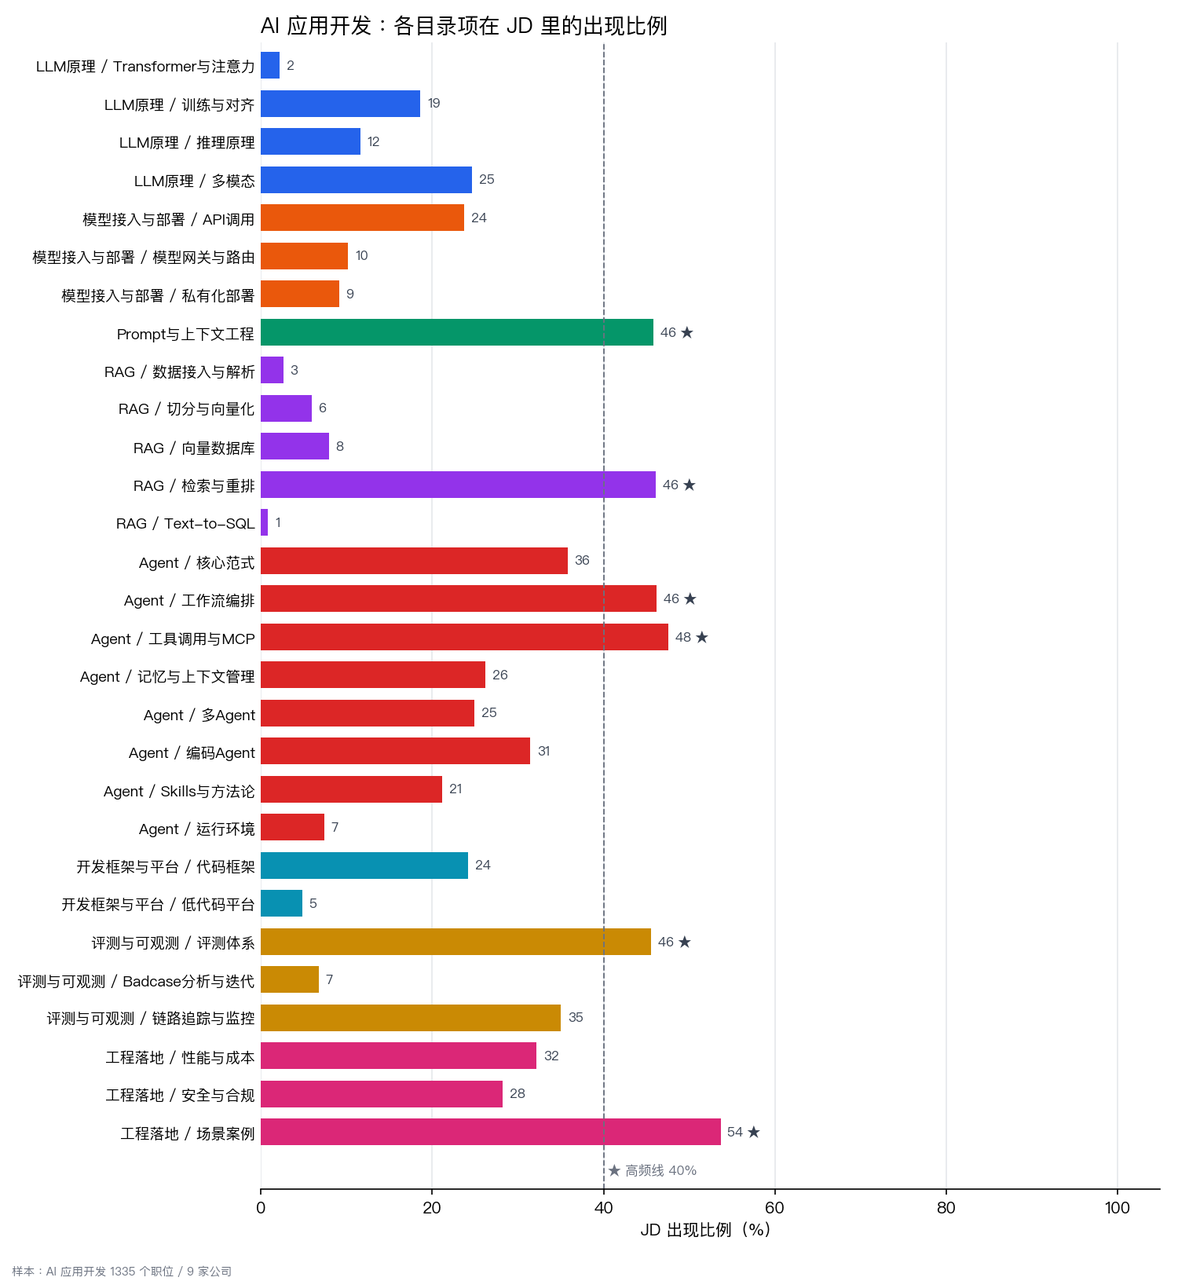
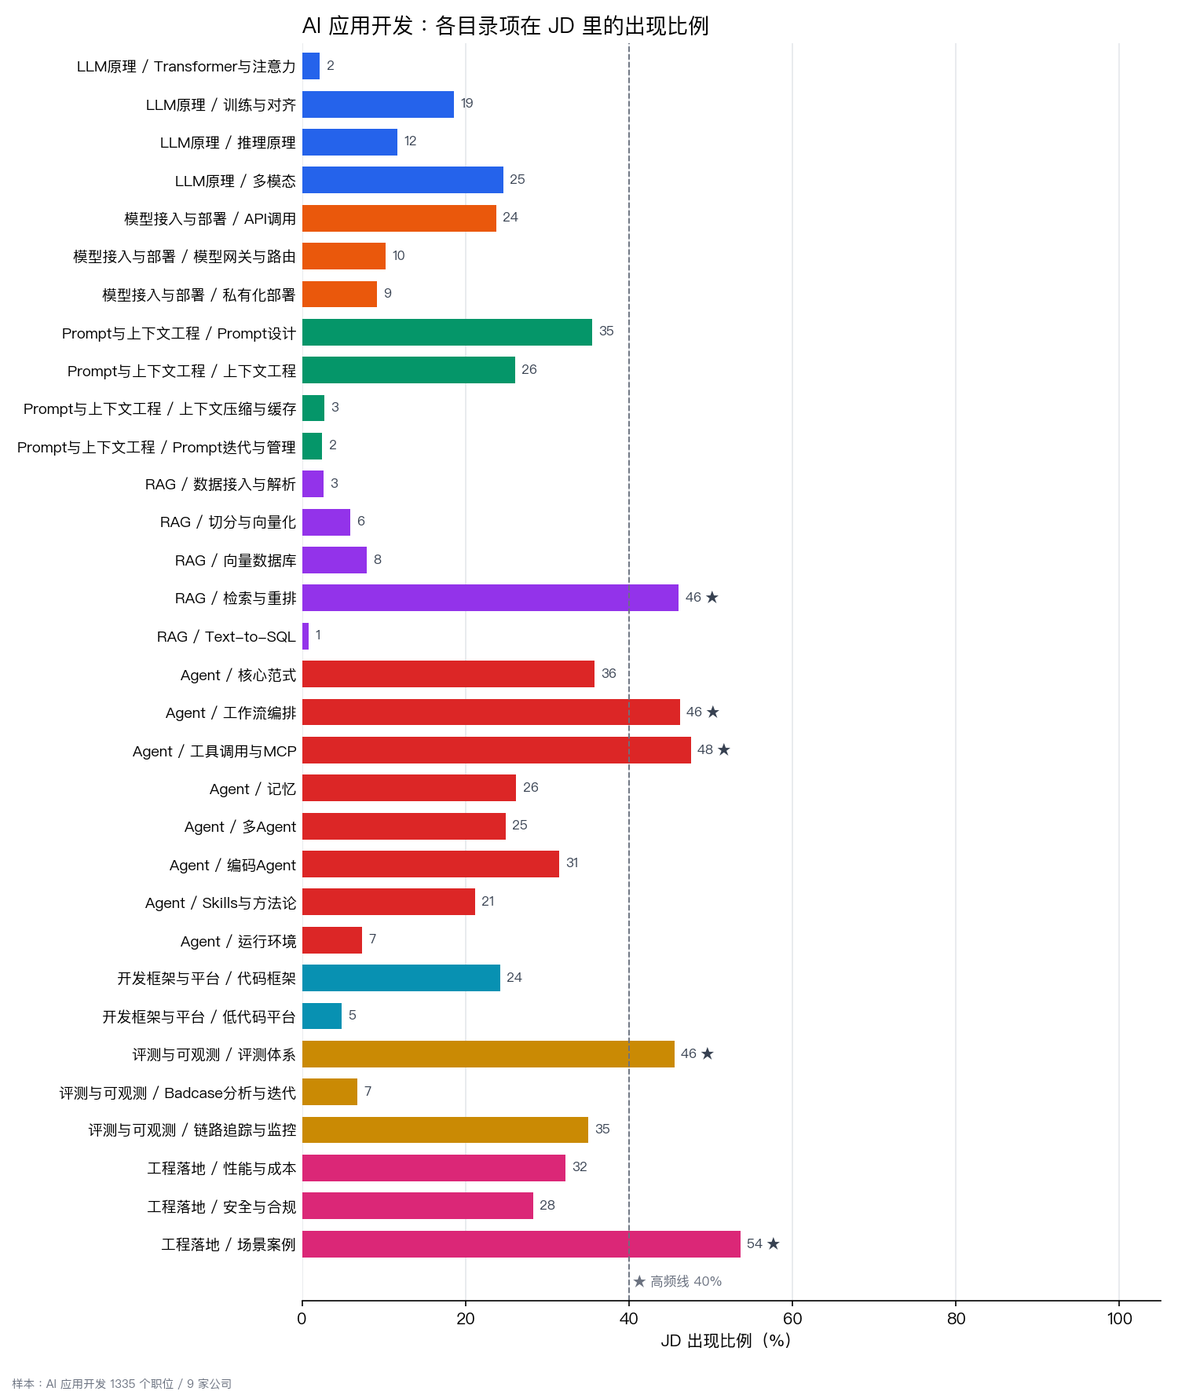
refactor: 重组 AI 应用开发目录，交互图只用点击，补充写作流程
- AI 应用开发：Prompt与上下文工程 拆成 Prompt设计、Prompt迭代与管理、上下文工程、上下文压缩与缓存 四篇；记忆与上下文管理 改名为 记忆，压缩部分移到上下文压缩与缓存
- jd_analysis.py 同步新目录项并重新生成 ai-dev.png，README 里的 JD 比例说明随之更新
- 交互图去掉悬停和 title 提示，联动高亮、RTT 计算器、封装图都只响应点击（手机上悬停不可用）
- CLAUDE.md 补充写一篇笔记的四步流程、写法约定和交互图用法
- 计算机网络笔记按新约定调整，重新生成 notes.json

diff --git a/site/assets/figures.js b/site/assets/figures.js
@@ -49,11 +49,11 @@
     go(0);
   }
 
-  // 联动高亮：.fig-hl 下 data-key 相同的元素一起高亮；悬停预览，点击固定。
-  // .fig-note[data-key] 只在对应的 key 被选中时显示，.fig-hint 在没有选中时显示
+  // 联动高亮：点击一个带 data-key 的元素，所有 data-key 相同的元素一起高亮，再点一次取消。
+  // 只响应点击，不用悬停。.fig-note[data-key] 只在对应的 key 被选中时显示，.fig-hint 在没有选中时显示
   function highlight(fig) {
     var keyed = fig.querySelectorAll("[data-key]");
-    var pinned = fig.getAttribute("data-default") || null;
+    var selected = fig.getAttribute("data-default") || null;
     function show(k) {
       Array.prototype.forEach.call(keyed, function (el) {
         el.classList.toggle("on", !!k && el.getAttribute("data-key") === k);
@@ -63,12 +63,10 @@
     Array.prototype.forEach.call(keyed, function (el) {
       if (el.classList.contains("fig-note")) return;
       var k = el.getAttribute("data-key");
-      el.addEventListener("mouseenter", function () { show(k); });
-      el.addEventListener("mouseleave", function () { show(pinned); });
-      el.addEventListener("click", function () { pinned = pinned === k ? null : k; show(pinned); });
+      el.addEventListener("click", function () { selected = selected === k ? null : k; show(selected); });
     });
     fig.classList.add("js");
-    show(pinned);
+    show(selected);
   }
 
   // RTT 耗时计算器：比较不同协议从发起连接到收完响应要多久。
@@ -115,8 +113,7 @@
       var max = Math.max.apply(null, data.map(function (d) { return d.total; }));
       rows.innerHTML = data.map(function (d) {
         var bar = d.segs.map(function (s) {
-          return '<span class="s-' + s.cls + '" style="width:' + (s.ms / max * 100) + '%" title="'
-            + s.label + '：' + s.ms.toFixed(1) + ' ms"></span>';
+          return '<span class="s-' + s.cls + '" style="width:' + (s.ms / max * 100) + '%"></span>';
         }).join("");
         return '<div class="rtt-row"><span class="rtt-name">' + d.p.name + '</span>'
           + '<span class="rtt-bar">' + bar + '</span>'

diff --git a/site/assets/style.css b/site/assets/style.css
@@ -248,7 +248,7 @@ main:has(.graph) { max-width: none; }
 .fig-encap > .lv { grid-column: 1; color: var(--ink-2); font-size: 12.5px; }
 .fig-encap > .pdu { grid-column: 7; color: var(--muted); font-size: 12px; padding-left: 8px; }
 .fig-encap > .seg {
-  padding: 5px 2px; border: 1px solid var(--border); border-radius: 5px; text-align: center; font-size: 12px; cursor: help;
+  padding: 5px 2px; border: 1px solid var(--border); border-radius: 5px; text-align: center; font-size: 12px;
 }
 .fig-encap .g2 { grid-column: 2; } .fig-encap .g3 { grid-column: 3; } .fig-encap .g4 { grid-column: 4; }
 .fig-encap .g5 { grid-column: 5; } .fig-encap .g6 { grid-column: 6; } .fig-encap .g2-6 { grid-column: 2 / 7; }
@@ -256,7 +256,7 @@ main:has(.graph) { max-width: none; }
 .fig-encap .h-ip { background: rgba(230, 140, 30, 0.20); }
 .fig-encap .h-tcp { background: rgba(27, 175, 122, 0.18); }
 .fig-encap .data { background: rgba(42, 120, 214, 0.16); }
-.fig-encap .bits { font-family: ui-monospace, Menlo, monospace; letter-spacing: 1px; color: var(--muted); cursor: default; }
+.fig-encap .bits { font-family: ui-monospace, Menlo, monospace; letter-spacing: 1px; color: var(--muted); }
 .fig-encap .dir { grid-column: 1 / -1; color: var(--muted); font-size: 12px; }
 
 /* SVG 图 */

diff --git a/tools/scripts/jd_analysis.py b/tools/scripts/jd_analysis.py
@@ -1,7 +1,7 @@
 #!/usr/bin/env python3
 """用社招 JD 统计每个目录项被提到的比例，生成 README 里的图。
 
-    python3 tools/scripts/jd_analysis.py [数据目录]      # 默认 ../../求职/data
+    python3 tools/scripts/jd_analysis.py [数据目录]      # 默认读仓库同级的 求职/data
 
 数据目录的格式是 <公司>/技术.csv、<公司>/产品.csv，来自 cn-tech-jobs 看板
 （https://sigangluo.github.io/cn-tech-jobs/ 页面底部可下载各公司 CSV）。
@@ -24,7 +24,7 @@ import matplotlib
 matplotlib.use("Agg")
 import matplotlib.pyplot as plt  # noqa: E402
 
-TOOLS = os.path.dirname(os.path.abspath(__file__))
+TOOLS = os.path.dirname(os.path.dirname(os.path.abspath(__file__)))
 ROOT = os.path.dirname(TOOLS)
 OUT = os.path.join(TOOLS, "docs", "images")
 MIN_JOBS = 8
@@ -85,7 +85,10 @@ ITEMS = [
     ("ai-dev", "模型接入与部署", "API调用", ("AI 应用开发",), r"模型 ?API|LLM ?API|模型接口|OpenAI|流式|结构化输出|Function ?Call"),
     ("ai-dev", "模型接入与部署", "模型网关与路由", ("AI 应用开发",), r"网关|模型路由|模型选型|多模型"),
     ("ai-dev", "模型接入与部署", "私有化部署", ("AI 应用开发",), r"vLLM|SGLang|Ollama|私有化|本地部署|模型部署|推理部署|推理服务"),
-    ("ai-dev", "Prompt与上下文工程", "Prompt与上下文工程", ("AI 应用开发",), r"Prompt|提示词|上下文工程|Context Engineering|上下文管理"),
+    ("ai-dev", "Prompt与上下文工程", "Prompt设计", ("AI 应用开发",), r"Prompt|提示词|Few-?shot|思维链|CoT"),
+    ("ai-dev", "Prompt与上下文工程", "上下文工程", ("AI 应用开发",), r"上下文工程|Context Engineering|上下文管理|上下文构建|上下文窗口|长上下文"),
+    ("ai-dev", "Prompt与上下文工程", "上下文压缩与缓存", ("AI 应用开发",), r"上下文压缩|Token ?压缩|Prompt ?Cach|上下文缓存"),
+    ("ai-dev", "Prompt与上下文工程", "Prompt迭代与管理", ("AI 应用开发",), r"(Prompt|提示词) ?(调优|优化|迭代|管理)|DSPy|自动优化"),
     ("ai-dev", "RAG", "数据接入与解析", ("AI 应用开发",), r"文档解析|数据解析|OCR|抓取|爬虫|ETL"),
     ("ai-dev", "RAG", "切分与向量化", ("AI 应用开发",), r"切分|分块|Chunk|[Ee]mbedding|向量化"),
     ("ai-dev", "RAG", "向量数据库", ("AI 应用开发",), r"向量数据库|向量库|向量检索|Milvus|pgvector|FAISS|Faiss"),
@@ -94,7 +97,7 @@ ITEMS = [
     ("ai-dev", "Agent", "核心范式", ("AI 应用开发",), r"ReAct|规划|Planning|CoT|思维链|反思"),
     ("ai-dev", "Agent", "工作流编排", ("AI 应用开发",), r"工作流|Workflow|编排"),
     ("ai-dev", "Agent", "工具调用与MCP", ("AI 应用开发",), r"Function ?Call|工具调用|Tool ?(Use|Call)|MCP"),
-    ("ai-dev", "Agent", "记忆与上下文管理", ("AI 应用开发",), r"记忆|Memory"),
+    ("ai-dev", "Agent", "记忆", ("AI 应用开发",), r"记忆|Memory"),
     ("ai-dev", "Agent", "多Agent", ("AI 应用开发",), r"多 ?Agent|多智能体|Multi-?Agent|A2A"),
     ("ai-dev", "Agent", "编码Agent", ("AI 应用开发",), r"AI ?Coding|代码生成|Coding Agent|Claude Code|Cursor"),
     ("ai-dev", "Agent", "Skills与方法论", ("AI 应用开发",), r"Skill|AGENTS\.md|规范驱动|Spec"),
@@ -239,7 +242,7 @@ def plot_items(groups, fig_key, results):
 
 
 def main():
-    data_dir = sys.argv[1] if len(sys.argv) > 1 else os.path.join(ROOT, "..", "..", "求职", "data")
+    data_dir = sys.argv[1] if len(sys.argv) > 1 else os.path.join(ROOT, "..", "求职", "data")
     os.makedirs(OUT, exist_ok=True)
     setup()
     groups = load(data_dir)

diff --git a/.claude/CLAUDE.md b/.claude/CLAUDE.md
@@ -4,12 +4,96 @@
 
 ## 内容放在哪里
 
-- 每个文件开头的「范围」就是它的边界。写新内容先找范围匹配的文件，超出范围就放到对应文件再链接，不要在两个地方各写一份。
+- 还没写的笔记开头有一行「范围」，是早期临时写的，不一定对，只作参考。开始写某篇笔记时直接删掉这一行，不用向用户提起；这篇笔记的边界以确认后的目录为准。
+- 同一个知识点只写一处，其他笔记用 Markdown 链接引用，不要在两个地方各写一份。
 - `技术/全栈开发/共通/` 只放前后端都要学的内容；只有前端或只有后端要学的放 `前端/`、`后端/`。
 - `产品/AI产品/技术理解` 只写产品需要懂到的程度，原理写在 `技术/AI应用开发/`，用 Markdown 链接过去。这种链接会被站点收成引用关系：笔记底部列出「引用 / 被引用」，「关联」页汇总全部。
 - `产品/` 下「要懂什么」放知识目录，「怎么答」放 `面试题型/`。
 - 面经放 `面经与复盘/`，格式见那里的 README；复盘出的知识点写回对应的知识文件。
 - 新增目录项时同步更新 README 的目录结构；如果它在 JD 里有对应要求，在 `tools/scripts/jd_analysis.py` 的 `ITEMS` 里加一行关键词，重新生成图。
+
+## 写一篇笔记的流程
+
+按下面四步走，每步做完停下来等用户确认，再进入下一步。
+
+### 1. 收集参考资料
+
+- **从哪找**：技术笔记先从 `../项目/github-fullstack-topk/`、`../项目/github-ai-topk/` 两份项目图谱里按分类和关键词筛；再上网补图谱之外的资料（经典教材、课程、中文面试资料、官方文档、规范原文）。考点的侧重可以参考 `../求职/data` 里的 JD。
+- **放在哪**：`../参考/`，在 `面试/` 仓库之外，约定见 `../参考/README.md`。
+  - 要克隆的仓库加进 `repos.txt`，运行 `./sync.sh`，浅克隆到 `repos/<owner>/<repo>/`，一个仓库只存一份，多篇笔记共用。
+  - 规范、标准、论文等原文放 `docs/<类别>/`。
+  - 每篇笔记在 `清单/` 下有一份参考清单，路径和笔记一一对应。清单写明用到哪个仓库的哪些具体文件、各资料的用途和可信度，以及和其他笔记的边界。
+- 只有读源码时才用得上的大型代码仓库，写笔记用不到，只在清单里列出，不克隆。
+
+### 2. 核实：参考资料只是参考
+
+参考资料可能有错、互相矛盾或已经过时，不能照搬。
+
+- 写进笔记的每个结论，都要以规范原文、官方文档或官方公告为准，二手资料只用来找考点。
+- 容易过时的内容（版本、默认值、标准的最新状态、厂商和浏览器的支持情况）要上网查最新状态，并把结论、来源链接、核实日期记进清单的「已核实的时效信息」。
+- 目录条目本身也要核实。条目往往是从资料里沿用的说法，里面可能带着过时或误导的前提：比如把某个旧版本、某种经典模型当成现状，或者问题的问法本身就预设了一个不成立的结论。
+- 资料之间有矛盾时，在笔记里写明正确说法和常见的错误说法。
+
+### 3. 写目录，给用户确认
+
+目录要同时满足以下几条：
+
+- **循序渐进**：概念先于使用，不提前引用后面才讲的概念。写完逐条检查：每个条目用到的概念是否已经在前面讲过。
+- **概念导向，不是问题导向**：每章前面的小节用陈述式标题讲清「是什么、怎么工作」；面试题集中放在每章最后的「常见追问」。每条追问只能依赖本章和前面章节的内容，否则挪到后面的章节。
+- **面试完整**：对照参考资料里的高频题清单查漏。
+- **边界清楚**：和其他笔记重叠的内容，只在一处展开，其他地方用 Markdown 链接引用，比如 `见[笔记标题](相对路径.md)`，不要写成「写在「某某笔记」」这种纯文本。
+- 每章开头如果需要承接前文，用一节「要解决的问题」说明这一章为什么存在。
+
+### 4. 按章写正文
+
+- 先写第一章给用户看，确认风格后再继续；之后每写完一章都请用户过目。
+- 没写完的笔记保留「（待补充）」标记：`build_site.py` 靠它判断一篇笔记是否写完。分章写时，把它放在还没写的章节前面，比如 `以下章节（待补充），目前只有目录。`
+- 写完用浏览器打开本地预览，逐个点一遍交互，深色和浅色主题都要看。
+
+## 写法
+
+- **图文并茂、结构化**：每个概念优先用「图或表 + 几条要点」来表达，不写大段文字。要点用加粗关键词开头，例如 `- **关键词**：……`。
+- **类比、易混点、结论**放引用块：`> **要点**：……`、`> **类比**：……`、`> **易混**：……`。
+- **表格**适合做对比和汇总。
+- **常见追问**写成点击展开的自测题，让读者先自己想，再看答案：
+
+  ```markdown
+  <details>
+  <summary>问题？</summary>
+
+  - **结论一**：……
+  - **结论二**：……
+
+  </details>
+  ```
+
+- **引用写法**：跨笔记的引用用 Markdown 链接；同一篇里引用其他小节用纯文本（如「见 2.3」），因为站点不支持跳到锚点。
+
+## 交互图
+
+图直接用 HTML 写在 Markdown 里，交互由 `site/assets/figures.js` 提供，样式在 `site/assets/style.css` 的「笔记里的图」部分。
+
+**交互只用点击，不用悬停**，也不要用 `title` 属性做悬停提示：悬停要等，在手机上也用不了。
+
+通用组件：
+
+| 组件 | 适合 | 写法 |
+|---|---|---|
+| `.fig-steps` 分步演示 | 流程、时序、状态变化 | 图里的元素加 `data-node`；`.fig-list > li` 是各个步骤，`data-on` 列出这一步要高亮的节点，`data-label` 是步骤按钮上的短名 |
+| `.fig-hl` 联动高亮 | 对照、结构、组成部分 | 可点击的元素加 `data-key`，key 相同的一起高亮；`.fig-note[data-key]` 是选中后显示的说明，`.fig-hint` 是没选中时的提示 |
+
+`figures.js` 里还有为个别笔记写的专用组件，用法看代码，不要当成通用写法。
+
+通用的布局类：`.fig-cap` 是图的说明文字；`.fig-flow` 配 `.fig-box`、`.fig-wire` 画横向的节点和连线，节点下方要挂分支时用 `.has-below`、`.fig-drop`、`.fig-below`、`.fig-vwire`；`.fig-notes` 是图下方的说明区。其他为个别图写的布局见 `style.css`。静态示意图可以直接写内联 `<svg>`，文字和线条用 `currentColor`，以适配深浅主题；`marker` 等元素的 `id` 要全站唯一。
+
+需要新的交互时，优先在 `figures.js` 里加通用组件；只有确实无法通用时，才写某张图的专用逻辑。
+
+写 HTML 时注意这几个坑：
+
+- **HTML 块里不能有空行**：marked 遇到空行就结束 HTML 块，后面的内容会被当成 Markdown 解析，缩进的行还会变成代码块。
+- **HTML 块里不解析 Markdown**：要用 `<b>`、`<code>`、`<br>` 等标签。
+- **指向其他笔记的链接写在 HTML 块外面**，用 Markdown 语法：`build_site.py` 只从 Markdown 链接收集引用关系。
+- **在 GitHub 上看源文件时交互会失效**（`class`、`data-*` 会被过滤），所以要保证内容能退化成可读的列表和表格。例如分步演示的每个步骤里都要写完整的文字，不能只靠高亮来表达。
 
 ## 隐私
 

diff --git a/技术/全栈开发/共通/计算机网络.md b/技术/全栈开发/共通/计算机网络.md
@@ -59,7 +59,7 @@
 <div class="c1" data-key="link">物理层</div>
 </div>
 <div class="fig-notes">
-<p class="fig-hint">悬停或点击任意一格，查看两个模型的对应关系</p>
+<p class="fig-hint">点击任意一格，查看两个模型的对应关系</p>
 <p class="fig-note" data-key="app"><b>应用层</b> = OSI 的应用层 + 表示层 + 会话层。加密、编码、会话管理这些事，实际中由应用或库自己完成（比如 TLS 负责加密），没有单独成层。</p>
 <p class="fig-note" data-key="tp"><b>传输层</b>在两个模型里一致：在两台主机的进程之间传数据。</p>
 <p class="fig-note" data-key="net"><b>网际层</b>就是 OSI 的网络层：跨越多个网络，把数据从源主机送到目的主机。</p>
@@ -87,14 +87,24 @@
 
 **封装与解封装**
 
-<div class="fig">
-<p class="fig-cap">发送一个 HTTP 请求时，每往下一层就在前面加一个头。把鼠标停在各个头上，可以看到里面有什么</p>
+<div class="fig fig-hl">
+<p class="fig-cap">发送一个 HTTP 请求时，每往下一层就在前面加一个头。点击任意一块，查看里面有什么</p>
 <div class="fig-encap">
-<div class="lv">应用层</div><div class="seg data g5" title="HTTP 请求：请求行、头部、正文">HTTP 报文</div><div class="pdu">报文</div>
-<div class="lv">传输层</div><div class="seg h-tcp g4" title="TCP 头（至少 20 字节）：源端口、目的端口、序号、确认号、标志位、窗口大小">TCP 头</div><div class="seg data g5">数据</div><div class="pdu">报文段</div>
-<div class="lv">网络层</div><div class="seg h-ip g3" title="IPv4 头（至少 20 字节）：源 IP、目的 IP、TTL、上层协议号">IP 头</div><div class="seg h-tcp g4">TCP 头</div><div class="seg data g5">数据</div><div class="pdu">IP 数据报</div>
-<div class="lv">链路层</div><div class="seg h-eth g2" title="以太网帧头（14 字节）：目的 MAC、源 MAC、上层协议类型">帧头</div><div class="seg h-ip g3">IP 头</div><div class="seg h-tcp g4">TCP 头</div><div class="seg data g5">数据</div><div class="seg t-eth g6" title="帧尾（4 字节）：校验值，用来发现传输中出错的比特">帧尾</div><div class="pdu">帧</div>
-<div class="lv">物理层</div><div class="seg bits g2-6">0 1 0 0 1 0 1 1 0 1 1 0 …</div><div class="pdu">比特</div>
+<div class="lv">应用层</div><div class="seg data g5" data-key="http">HTTP 报文</div><div class="pdu">报文</div>
+<div class="lv">传输层</div><div class="seg h-tcp g4" data-key="tcp">TCP 头</div><div class="seg data g5" data-key="data">数据</div><div class="pdu">报文段</div>
+<div class="lv">网络层</div><div class="seg h-ip g3" data-key="ip">IP 头</div><div class="seg h-tcp g4" data-key="tcp">TCP 头</div><div class="seg data g5" data-key="data">数据</div><div class="pdu">IP 数据报</div>
+<div class="lv">链路层</div><div class="seg h-eth g2" data-key="eth">帧头</div><div class="seg h-ip g3" data-key="ip">IP 头</div><div class="seg h-tcp g4" data-key="tcp">TCP 头</div><div class="seg data g5" data-key="data">数据</div><div class="seg t-eth g6" data-key="fcs">帧尾</div><div class="pdu">帧</div>
+<div class="lv">物理层</div><div class="seg bits g2-6" data-key="bits">0 1 0 0 1 0 1 1 0 1 1 0 …</div><div class="pdu">比特</div>
+</div>
+<div class="fig-notes">
+<p class="fig-hint">点击任意一块查看说明</p>
+<p class="fig-note" data-key="http"><b>HTTP 报文</b>：请求行、头部、正文。如果是 HTTPS，这里是 TLS 加密后的内容。</p>
+<p class="fig-note" data-key="data"><b>数据</b>：上一层交下来的全部内容。这一层不关心里面是什么，原样装进来。</p>
+<p class="fig-note" data-key="tcp"><b>TCP 头</b>（至少 20 字节）：源端口、目的端口、序号、确认号、标志位、窗口大小。目的端口指明交给哪个应用。</p>
+<p class="fig-note" data-key="ip"><b>IP 头</b>（IPv4 至少 20 字节）：源 IP、目的 IP、TTL、协议号。协议号指明上层是 TCP 还是 UDP。</p>
+<p class="fig-note" data-key="eth"><b>帧头</b>（以太网 14 字节）：目的 MAC、源 MAC、类型。类型指明上层是 IPv4、IPv6 还是 ARP。</p>
+<p class="fig-note" data-key="fcs"><b>帧尾</b>（4 字节）：校验值。接收方用它发现传输中出错的比特，出错的帧直接丢弃。</p>
+<p class="fig-note" data-key="bits"><b>比特</b>：物理层把整个帧变成 0 和 1，以电信号、光信号或无线电的形式发出去。</p>
 </div>
 </div>
 

diff --git a/README.md b/README.md
@@ -49,7 +49,7 @@ python3 tools/scripts/jd_analysis.py [数据目录]    # 默认 ../../求职/dat
 
 ![AI 应用开发各目录项的 JD 出现比例](tools/docs/images/ai-dev.png)
 
-高频的是工具调用与 MCP、Prompt 与上下文工程、RAG、工作流编排、评测（都在 46%～48%），外加业务场景落地（54%），评测因此单独成一个目录。RAG 的子项（解析、切分、向量库）在 JD 里很少单独写，通常只写「RAG」，但面试会顺着整条链路追问。浏览器自动化、沙箱只有 7%，合并成「运行环境」。
+高频的是工具调用与 MCP、RAG、工作流编排、评测（都在 46%～48%），外加业务场景落地（54%），评测因此单独成一个目录；Prompt 设计（35%）和上下文工程（26%）紧随其后。RAG 和 Prompt 的细分子项（切分、向量库、上下文压缩、Prompt 迭代）在 JD 里很少单独写，通常只写「RAG」「Prompt」，但面试会顺着整条链路追问。浏览器自动化、沙箱只有 7%，合并成「运行环境」。
 
 ### 产品
 

diff --git a/技术/AI应用开发/Agent/记忆.md b/技术/AI应用开发/Agent/记忆.md
@@ -1,0 +1,5 @@
+# 记忆
+
+> 范围：短期 / 长期记忆，跨会话记忆的存储与检索。单次会话内的上下文压缩见 [上下文压缩与缓存](../Prompt与上下文工程/上下文压缩与缓存.md)。
+
+（待补充）

diff --git a/技术/AI应用开发/Prompt与上下文工程/Prompt迭代与管理.md b/技术/AI应用开发/Prompt与上下文工程/Prompt迭代与管理.md
@@ -1,0 +1,5 @@
+# Prompt迭代与管理
+
+> 范围：Prompt 调优方法、自动优化（DSPy 一类）、Prompt 版本管理。效果怎么衡量见 [评测体系](../评测与可观测/评测体系.md)。
+
+（待补充）

diff --git a/技术/AI应用开发/Prompt与上下文工程/上下文工程.md b/技术/AI应用开发/Prompt与上下文工程/上下文工程.md
@@ -1,0 +1,5 @@
+# 上下文工程
+
+> 范围：上下文由哪些部分组成（系统提示、工具定义、检索结果、对话历史），如何组织与排序，上下文窗口的预算分配。
+
+（待补充）

diff --git a/技术/AI应用开发/Prompt与上下文工程/上下文压缩与缓存.md b/技术/AI应用开发/Prompt与上下文工程/上下文压缩与缓存.md
@@ -1,0 +1,5 @@
+# 上下文压缩与缓存
+
+> 范围：摘要、裁剪、Token 压缩，Prompt Cache 与上下文缓存。跨会话的长期记忆见 [记忆](../Agent/记忆.md)。
+
+（待补充）

diff --git a/技术/AI应用开发/Prompt与上下文工程/Prompt设计.md b/技术/AI应用开发/Prompt与上下文工程/Prompt设计.md
@@ -1,0 +1,5 @@
+# Prompt设计
+
+> 范围：角色与指令、Few-shot、思维链、输出格式约束、常见 Prompt 模式。
+
+（待补充）
